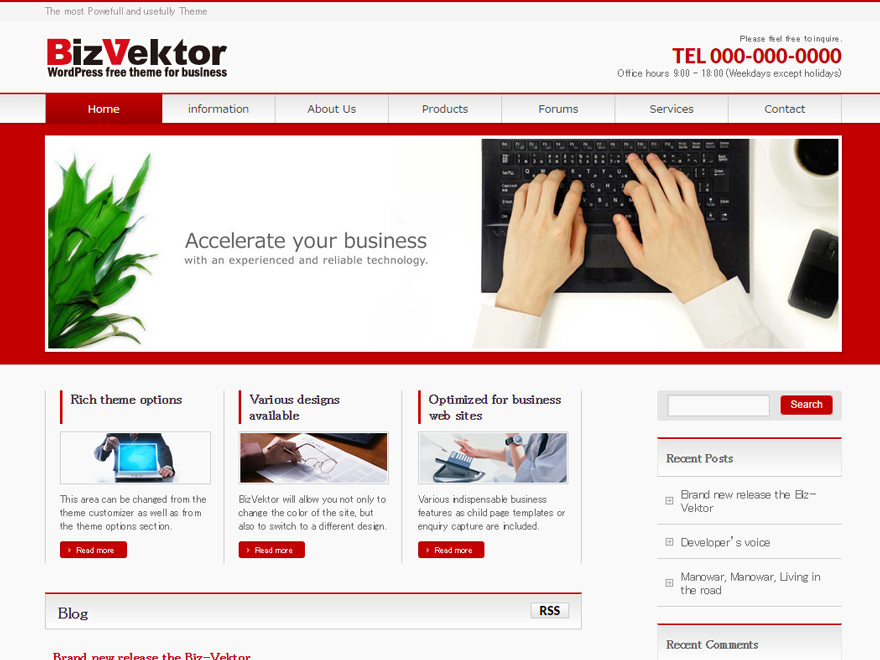
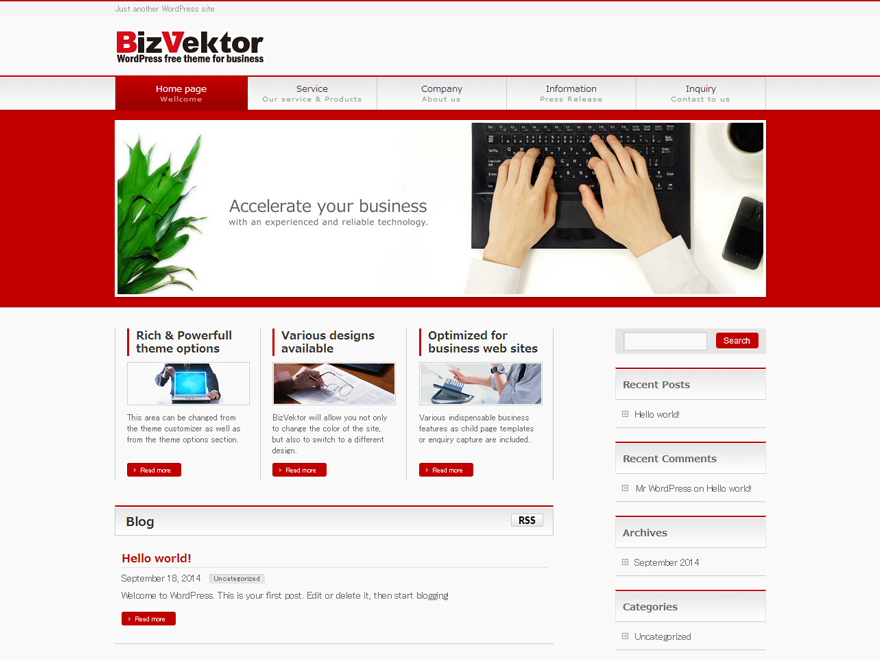
３PRの文言修正／スクリーンショット変更

diff --git a/inc/theme-options.php b/inc/theme-options.php
@@ -731,7 +731,7 @@ function biz_vektor_get_default_theme_options(){
 		'postLabelName'        => 'Blog',
 		'infoLabelName'        => 'Information',
 		'theme_style'          => 'default',
-		'pr1_title'            => __('Rich theme options', 'biz-vektor'),
+		'pr1_title'            => __('Rich & Powerfull theme options', 'biz-vektor'),
 		'pr1_description'      => __('This area can be changed from the theme customizer as well as from the theme options section.', 'biz-vektor'),
 		'pr1_link'             => '',
 		'pr1_image'            => get_template_directory_uri().'/images/samples/pr_image_demo_1.gif',
